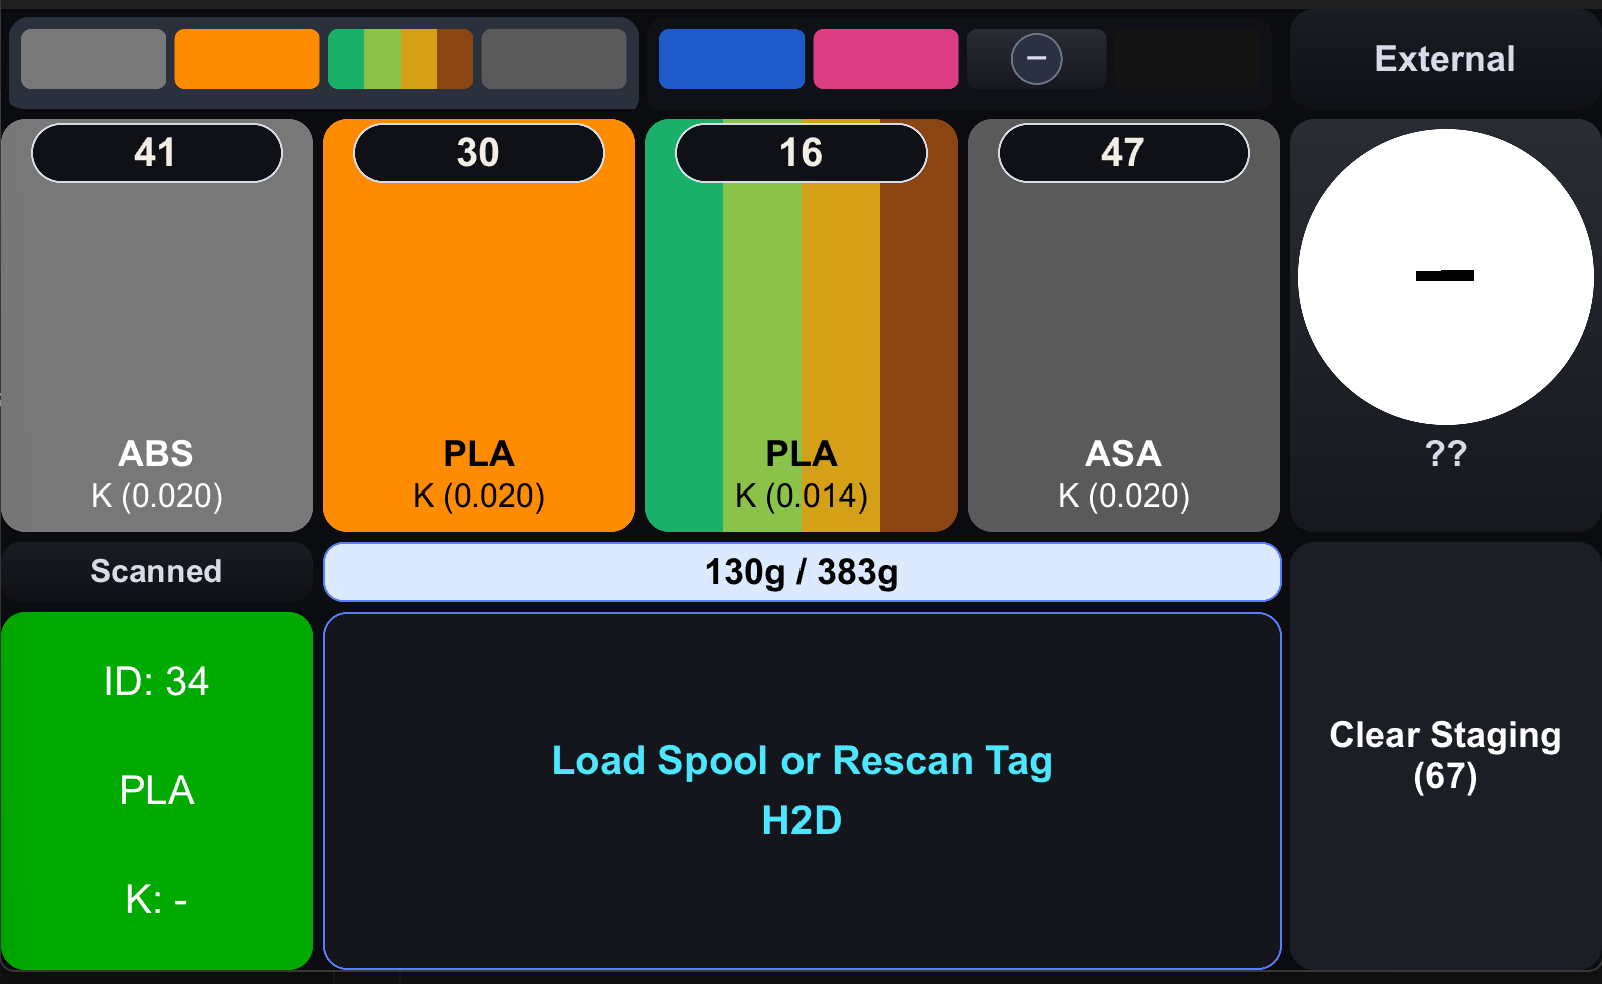
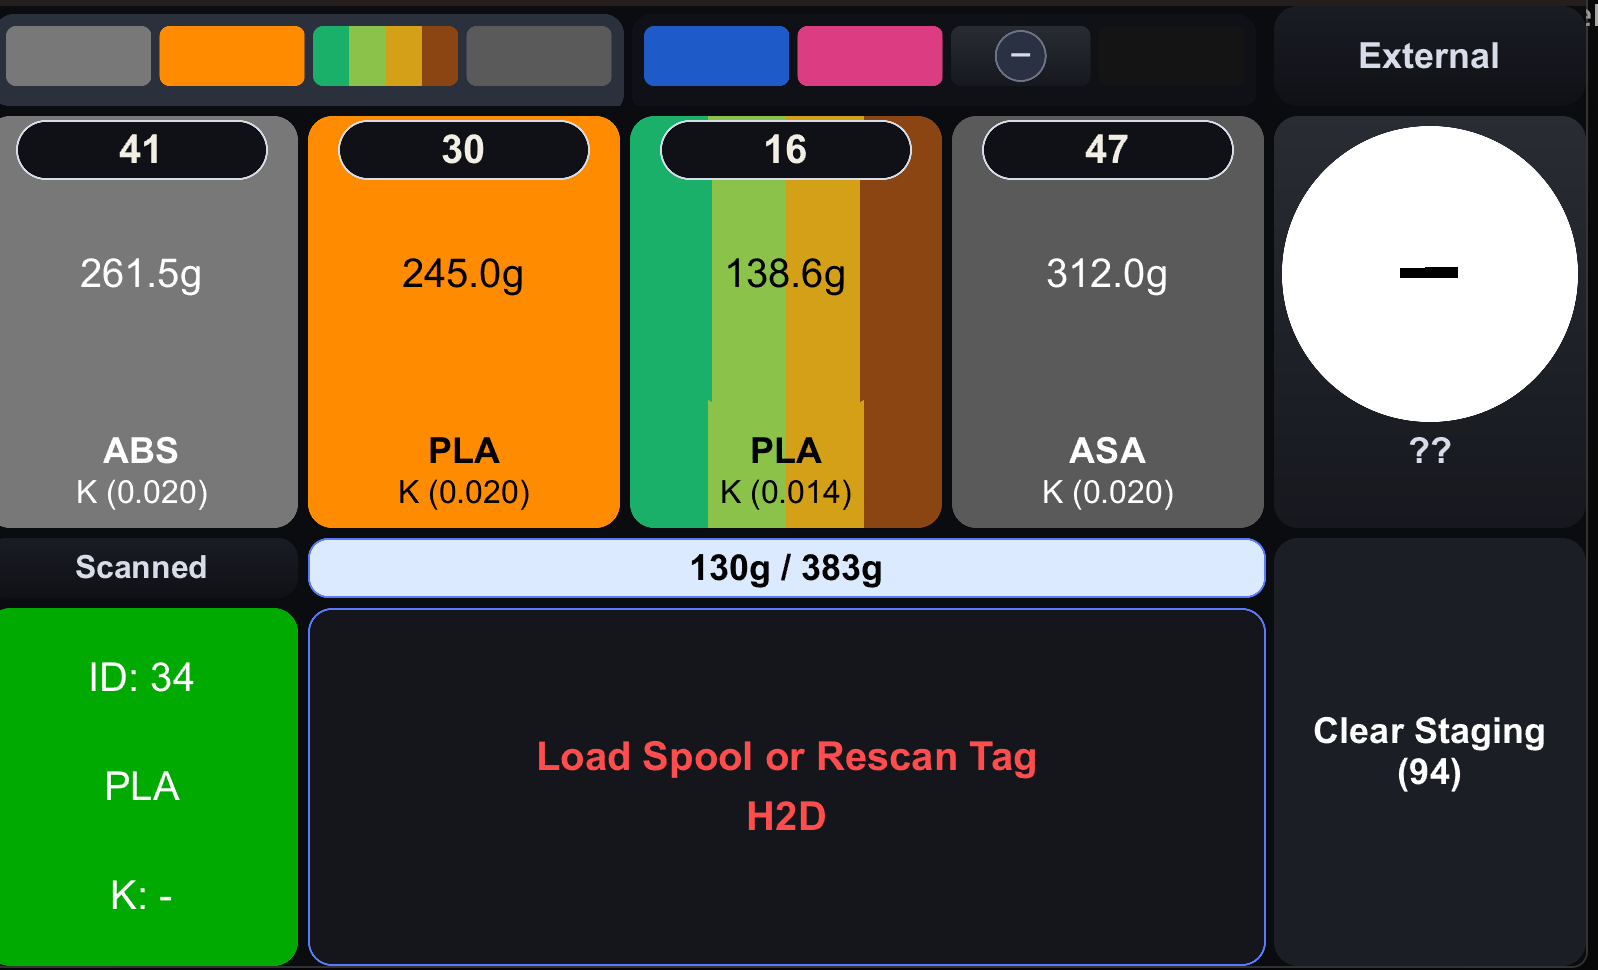
Show stock and restyled screenshots side by side.

diff --git a/README.md b/README.md
@@ -1,8 +1,9 @@
 This is just my personal fork of [SpoolEase](https://github.com/yanshay/SpoolEase). I restyled the Console UI on the stock 0.7 branch. Same features as 0.7, not an official build.
 
-![main page](docs/MainPage.png)
-
-![spool page](docs/SpoolPage.png)
+| stock | this |
+|:---:|:---:|
+| ![stock main](docs/StockMainPage.png) | ![main](docs/MainPage.png) |
+| ![stock spool](docs/StockSpoolPage.png) | ![spool](docs/SpoolPage.png) |
 
 Mostly visual stuff: darker buttons, rounded spool cards, black number chips. Gross weight has a green background. If you tap a spool, the whole top bar is that filament color instead of a thin strip. Also bumped HAL to 0.6.11 so wifi reconnect still works, and I had to drop some unused wifi pills because the compiler choked on them.
 
